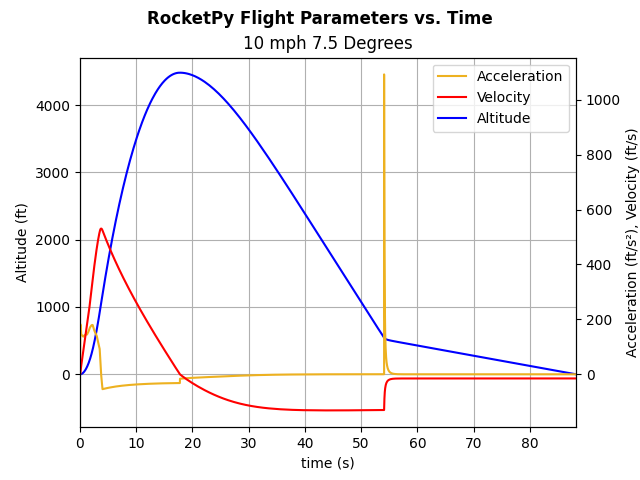
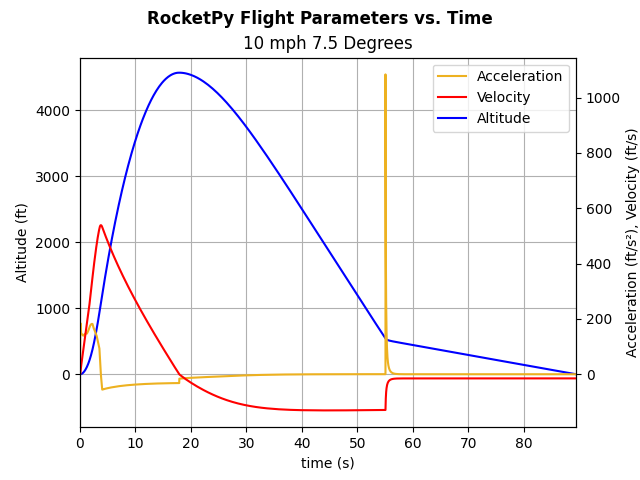
Started framework for new organization, made a callable function to open YAML files

diff --git a/RocketPy/Data Retrieval/OpenYAML.py b/RocketPy/Data Retrieval/OpenYAML.py
@@ -1,0 +1,104 @@
+import rocketpy as rp
+import numpy as np
+import yaml
+import math
+import csv
+
+
+FT_TO_M = 3.28084
+IN_TO_M = 1 / 39.37
+LBS_TO_KG = 0.4536
+
+
+
+def readYaml (filename):
+    ############################################################################
+    # Function to read YAML files with rocket data and convert them into 
+    # RocketPy rocket class with data from config file
+    #INPUTS:
+    #Filename - filepath of the YAML vehicle file within the directory
+    #OUTPUTS:
+    #vehicle - RocketPy rocket class with vehicle data from the loaded YAML file
+    #############################################################################
+    
+    #Opens YAML file and seperates dictionary of dictionaries into individual dicts and variables
+    #The contents of each dict defined here can be viewed within the config files
+    #POSSIBLY ADD DEFINITIONS HERE LATER 
+    with open(filename, 'r') as file:
+        data = yaml.safe_load(file)
+    files_data = data["githubfiles"]
+    motor_data = data["motor"]
+    rocket_data = data["rocket"]
+    nose_data = data["nose_cone"]
+    fins_data = data["fins"] 
+    parachutes_data = data["parachutes"]
+    thrusturl = files_data["thrusturl"] #filepath for the thrust vs time csv file
+    boostermass = rocket_data["booster"]
+    avionicsmass = rocket_data["midsec"]
+    nosemass = rocket_data["uppersec"]
+    m_heav = rocket_data["h_section"]
+    dragurl = files_data["dragurl"] #filepath for the drag vs mach number csv file
+
+    #Defines the motor using the motor_data dictionary
+    engine = rp.GenericMotor(
+        coordinate_system_orientation= "nozzle_to_combustion_chamber", #position of 0 = end of nozzle
+        thrust_source = thrusturl, #thrust vs time csv file
+        dry_mass = (motor_data["net_mass"] - motor_data["prop_mass"]) * LBS_TO_KG, #Rocket's dry mass (lbs -> kg)
+        propellant_initial_mass = motor_data["prop_mass"] * LBS_TO_KG, #Propellant mass (lbs -> kg)
+        #center_of_dry_mass_position = motor_data["center_of_dry_mass"] / 39.37, #in -> m
+        #dry_inertia = (1.22 / 4.882, 1.22 / 4.882, 0.042 / 4.882),
+        chamber_radius= motor_data["chamber_rad"] * IN_TO_M ,#Combustion Chamber radius (in -> meters)    
+        chamber_height = motor_data["chamber_height"] * IN_TO_M, #Combustion Chamber height (in -> meters)
+        chamber_position = motor_data["center_of_dry_mass"] * IN_TO_M, #Combustion chamber position (in -> meters)
+        nozzle_radius = motor_data["nozzle_rad"] * IN_TO_M, #Nozzle radius (in -> meters)
+        burn_time = None #Burn time (forced undefined, as it will be defined by thrust curve length)
+    )
+    vehicle = rp.Rocket(
+    radius = rocket_data["radius"] * IN_TO_M, #airframe radius (in -> meters)
+    mass = (rocket_data["mass"] * LBS_TO_KG), #Rocket mass WITHOUT motor (lbs -> kg)
+    inertia = np.array(rocket_data["inertia"]) * LBS_TO_KG / FT_TO_M**2, #inertia vector (lbs/ft^2 -> kg/m^2)
+    #First two are longitudinal moment of inertia, last is rotational)
+    power_off_drag = dragurl, #Coefficient of drag when power is off vs mach number
+    power_on_drag = dragurl, #Coefficient of drag when power is on vs mach number
+    coordinate_system_orientation = "nose_to_tail", #defines position 0 = end of nose
+    center_of_mass_without_motor = rocket_data["COM"] * IN_TO_M #Center of mass WITHOUT motor (in -> meters)  
+    )
+    vehicle.add_motor(engine, rocket_data["length"] * IN_TO_M) #position of motor in rocket
+
+    #adds nose cone to vehicle
+    nose_cone = vehicle.add_nose(
+        length = nose_data["length"] * IN_TO_M, #Length of nose cone (in -> meters)
+        kind = "von karman", #Nose type, IF EVER NOT VON KARMAN CHANGE THIS
+        position = 0 #defines nose cone at end of nose cone (nose to tail orientation)
+    )
+    
+    #adds fins to vehicle
+    fin_set = vehicle.add_trapezoidal_fins(
+        n = fins_data["n"], #number of fins
+        root_chord = fins_data["root_chord"] * IN_TO_M, #root chord length (in -> meters)
+        tip_chord = fins_data["tip_chord"] * IN_TO_M, #tip chord length (in -> meters)
+        position = (rocket_data["length"] - fins_data["root_chord"]) * IN_TO_M, #position (in -> meters)
+        span = fins_data["span"] * IN_TO_M, #span (in -> meters)
+        sweep_length = fins_data["sweep"] * IN_TO_M #Sweep length (in -> meters),
+        #   airfoil = (airfoilLift, "degrees") #OPTIONAL ADD AIRFOIL TO FINS ((WIP))
+    )
+    #Adds main if present
+    if parachutes_data["main_present"]:
+        main = vehicle.add_parachute(
+            name = "main",
+            cd_s = parachutes_data["main_cd"] * (parachutes_data["main_diameter"] / 2 * IN_TO_M) ** 2 * math.pi, 
+            #Defined as area (m^2) * coefficient of drag 
+            trigger = parachutes_data["main_trigger"] / FT_TO_M, #altitude of main deployment ft -> meters
+            lag = 0 #lag between deployment signal and deployment
+        )
+
+    #Adds drogue if present
+    if parachutes_data["drogue_present"]:
+        drogue = vehicle.add_parachute(
+            name = "drogue",
+            lag = 0,# lag between deployment signal and deployment
+            cd_s = parachutes_data["drogue_cd"] * (parachutes_data["drogue_diameter"] / 2 * IN_TO_M) ** 2 * math.pi,
+            #Defined as area (m^2) * coefficient of drag 
+            trigger = "apogee" #Triggers drogue and apogee
+        )
+    return(vehicle)

diff --git a/main.py b/main.py
@@ -413,8 +413,8 @@ filename = "output.csv"
 # opening the file with w+ mode truncates the file
 f = open(filename, "w+")
 f.close()
-angles = [5, 5, 7.5, 7.5, 10]
-speeds = [0, 5  , 10, 15, 20]
+angles = [4, 5, 7.5, 7.5, 10]
+speeds = [1, 5  , 10, 15, 20]
 env = rp.Environment(latitude = 40.505404, longitude = -87.019832, elevation=187)
     #URL = "http://weather.uwyo.edu/cgi-bin/sound   ing?region=naconf&TYPE=TEXT%3ALIST&YEAR=2024&MONTH=04&FROM=1300&TO=1312&STNM=72230"
 env.set_date((2024, 4, 13, 6))
